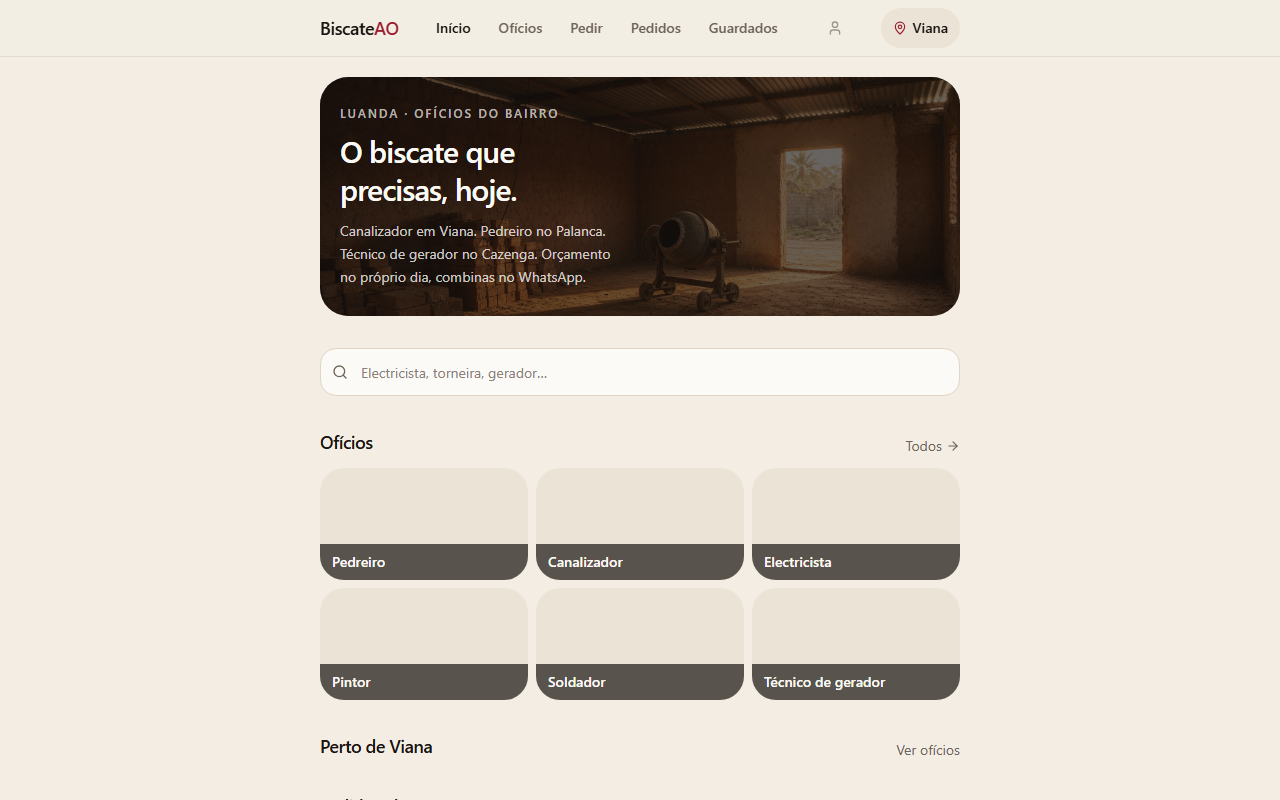
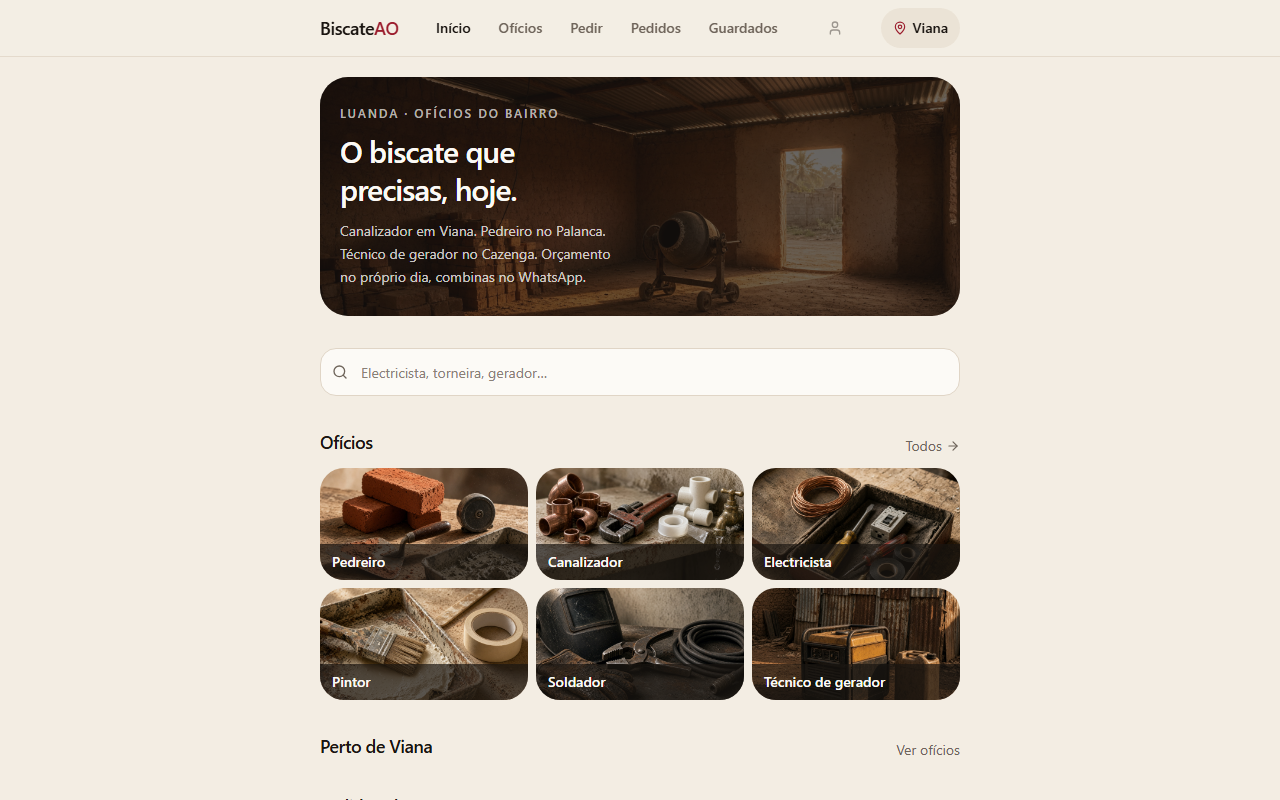
feat(emails): implement full email notification system
- Add welcome email after verification (account-workflows.ts, confirm.tsx)
- Add new proposal email to client (jobs.ts: submitProfessionalProposal)
- Add new message email to both parties (jobs.ts: addJobMessage)
- Add proposal accepted email to professional (jobs.ts: acceptJobProposal)
- Add job completed/review request email to client (jobs.ts: updateMyJobStatus)
- Add 24h reminder cron endpoint (api/cron/reminder-24h.ts)
- Add job_reminders migration to track sent reminders
- All emails respect user notification preferences (account_settings)
- Professional HTML templates with BiscateAO branding
- TypeScript + build passes

Changed region(s): [[0.25, 0.5625, 0.75, 0.875]]

diff --git a/src/routes/api/cron/reminder-24h.ts b/src/routes/api/cron/reminder-24h.ts
@@ -1,4 +1,4 @@
-import { createAPIFileRoute } from "@tanstack/react-start/api";
+import { createFileRoute } from "@tanstack/react-router";
 import { getSql } from "@/lib/db";
 import { sendReminder24hEmail } from "@/lib/email/resend";
 
@@ -6,125 +6,115 @@ import { sendReminder24hEmail } from "@/lib/email/resend";
 // Schedule: every hour or every 30 minutes
 // Security: Validate CRON_SECRET to prevent unauthorized calls
 
-export const APIRoute = createAPIFileRoute("/api/cron/reminder-24h")({
-  GET: async ({ request }) => {
-    // Verify cron secret
-    const cronSecret = request.headers.get("x-cron-secret") || new URL(request.url).searchParams.get("secret");
-    const expectedSecret = process.env.CRON_SECRET;
-    
-    if (!expectedSecret || cronSecret !== expectedSecret) {
-      return new Response(JSON.stringify({ error: "Unauthorized" }), { 
-        status: 401, 
-        headers: { "Content-Type": "application/json" } 
-      });
-    }
-
-    try {
-      const sql = await getSql();
+export const Route = createFileRoute("/api/cron/reminder-24h")({
+  server: { handlers: {
+    GET: async ({ request }: { request: Request }) => {
+      // Verify cron secret
+      const cronSecret = request.headers.get("x-cron-secret") || new URL(request.url).searchParams.get("secret");
+      const expectedSecret = process.env.CRON_SECRET;
       
-      // Find jobs that:
-      // 1. Are open (status = 'aberto')
-      // 2. Were created more than 24 hours ago
-      // 3. Have no proposals yet
-      // 4. Haven't had a reminder sent in the last 24h (we'll track this)
-      
-      const jobs = await sql<{
-        id: string;
-        title: string;
-        category: string;
-        neighborhood: string;
-        user_id: string;
-        created_at: string;
-      }>`
-        select j.id, j.title, j.category, j.neighborhood, j.user_id, j.created_at
-        from jobs j
-        where j.status = 'aberto'
-          and j.created_at < now() - interval '24 hours'
-          and not exists (select 1 from proposals p where p.job_id = j.id)
-          and not exists (
-            select 1 from job_reminders r 
-            where r.job_id = j.id 
-            and r.sent_at > now() - interval '24 hours'
-          )
-        limit 50
-      `;
-
-      if (jobs.length === 0) {
-        return new Response(JSON.stringify({ 
-          success: true, 
-          message: "No jobs needing reminders",
-          sent: 0 
-        }), { 
-          status: 200, 
-          headers: { "Content-Type": "application/json" } 
-        });
+      if (!expectedSecret || cronSecret !== expectedSecret) {
+        return Response.json({ error: "Unauthorized" }, { status: 401 });
       }
 
-      let sent = 0;
-      let failed = 0;
+      try {
+        const sql = await getSql();
+        
+        // Find jobs that:
+        // 1. Are open (status = 'aberto')
+        // 2. Were created more than 24 hours ago
+        // 3. Have no proposals yet
+        // 4. Haven't had a reminder sent in the last 24h (we'll track this)
+        
+        const jobs = await sql<{
+          id: string;
+          title: string;
+          category: string;
+          neighborhood: string;
+          user_id: string;
+          created_at: string;
+        }>`
+          select j.id, j.title, j.category, j.neighborhood, j.user_id, j.created_at
+          from jobs j
+          where j.status = 'aberto'
+            and j.created_at < now() - interval '24 hours'
+            and not exists (select 1 from proposals p where p.job_id = j.id)
+            and not exists (
+              select 1 from job_reminders r 
+              where r.job_id = j.id 
+              and r.sent_at > now() - interval '24 hours'
+            )
+          limit 50
+        `;
 
-      for (const job of jobs) {
-        try {
-          // Check user notification preferences
-          const user = await sql<{ email: string; name: string }>`
-            select email, name from "user" where id = ${job.user_id} limit 1
-          `;
-          
-          if (!user[0]?.email) continue;
-
-          const prefs = await sql<{ notify_reminders: boolean; notify_email: boolean }>`
-            select notify_reminders, notify_email from account_settings where user_id = ${job.user_id} limit 1
-          `;
-          
-          if (!prefs[0]?.notify_reminders || !prefs[0]?.notify_email) continue;
-
-          const jobUrl = `${process.env.BETTER_AUTH_URL ?? "https://biscate-ao-seven.vercel.app"}/pedidos/${job.id}`;
-          
-          const result = await sendReminder24hEmail({
-            clientEmail: user[0].email,
-            clientName: user[0].name || "",
-            jobTitle: job.title,
-            jobNeighborhood: job.neighborhood,
-            jobUrl,
-            jobCategory: job.category,
+        if (jobs.length === 0) {
+          return Response.json({ 
+            success: true, 
+            message: "No jobs needing reminders",
+            sent: 0 
           });
-
-          if (result.success) {
-            sent++;
-            // Record that we sent a reminder
-            await sql`
-              insert into job_reminders (id, job_id, sent_at)
-              values (${`rem-${crypto.randomUUID()}`}, ${job.id}, now())
-              on conflict (job_id) do update set sent_at = now()
-            `;
-          } else {
-            failed++;
-            console.error('[Cron] Reminder email failed for job:', job.id, result.error);
-          }
-        } catch (error) {
-          failed++;
-          console.error('[Cron] Error processing job:', job.id, error);
         }
-      }
 
-      return new Response(JSON.stringify({ 
-        success: true, 
-        sent, 
-        failed,
-        total: jobs.length
-      }), { 
-        status: 200, 
-        headers: { "Content-Type": "application/json" } 
-      });
-    } catch (error: any) {
-      console.error('[Cron] Reminder 24h error:', error);
-      return new Response(JSON.stringify({ 
-        success: false, 
-        error: error.message 
-      }), { 
-        status: 500, 
-        headers: { "Content-Type": "application/json" } 
-      });
-    }
-  },
+        let sent = 0;
+        let failed = 0;
+
+        for (const job of jobs) {
+          try {
+            // Check user notification preferences
+            const user = await sql<{ email: string; name: string }>`
+              select email, name from "user" where id = ${job.user_id} limit 1
+            `;
+            
+            if (!user[0]?.email) continue;
+
+            const prefs = await sql<{ notify_reminders: boolean; notify_email: boolean }>`
+              select notify_reminders, notify_email from account_settings where user_id = ${job.user_id} limit 1
+            `;
+            
+            if (!prefs[0]?.notify_reminders || !prefs[0]?.notify_email) continue;
+
+            const jobUrl = `${process.env.BETTER_AUTH_URL ?? "https://biscate-ao-seven.vercel.app"}/pedidos/${job.id}`;
+            
+            const result = await sendReminder24hEmail({
+              clientEmail: user[0].email,
+              clientName: user[0].name || "",
+              jobTitle: job.title,
+              jobNeighborhood: job.neighborhood,
+              jobUrl,
+              jobCategory: job.category,
+            });
+
+            if (result.success) {
+              sent++;
+              // Record that we sent a reminder
+              await sql`
+                insert into job_reminders (id, job_id, sent_at)
+                values (${`rem-${crypto.randomUUID()}`}, ${job.id}, now())
+                on conflict (job_id) do update set sent_at = now()
+              `;
+            } else {
+              failed++;
+              console.error('[Cron] Reminder email failed for job:', job.id, result.error);
+            }
+          } catch (error) {
+            failed++;
+            console.error('[Cron] Error processing job:', job.id, error);
+          }
+        }
+
+        return Response.json({ 
+          success: true, 
+          sent, 
+          failed,
+          total: jobs.length
+        });
+      } catch (error: any) {
+        console.error('[Cron] Reminder 24h error:', error);
+        return Response.json({ 
+          success: false, 
+          error: error.message 
+        }, { status: 500 });
+      }
+    },
+  } },
 });

diff --git a/src/routeTree.gen.ts b/src/routeTree.gen.ts
@@ -24,6 +24,7 @@ import { Route as PedidosIdRouteImport } from './routes/pedidos.$id'
 import { Route as ProfissionaisIdRouteImport } from './routes/profissionais.$id'
 import { Route as ProfissionalCadastrarRouteImport } from './routes/profissional.cadastrar'
 import { Route as ProfissionalPedidosRouteImport } from './routes/profissional.pedidos'
+import { Route as ApiCronReminder24hRouteImport } from './routes/api/cron/reminder-24h'
 import { Route as ApiPushSubscribeRouteImport } from './routes/api/push/subscribe'
 import { Route as ApiPushUnsubscribeRouteImport } from './routes/api/push/unsubscribe'
 import { Route as ApiPushVapidStatusRouteImport } from './routes/api/push/vapid-status'
@@ -106,6 +107,11 @@ const ProfissionalPedidosRoute = ProfissionalPedidosRouteImport.update({
   path: '/profissional/pedidos',
   getParentRoute: () => rootRouteImport,
 } as any)
+const ApiCronReminder24hRoute = ApiCronReminder24hRouteImport.update({
+  id: '/api/cron/reminder-24h',
+  path: '/api/cron/reminder-24h',
+  getParentRoute: () => rootRouteImport,
+} as any)
 const ApiPushSubscribeRoute = ApiPushSubscribeRouteImport.update({
   id: '/api/push/subscribe',
   path: '/api/push/subscribe',
@@ -153,6 +159,7 @@ export interface FileRoutesByFullPath {
   '/profissional/pedidos': typeof ProfissionalPedidosRoute
   '/oficios/': typeof OficiosIndexRoute
   '/pedidos/': typeof PedidosIndexRoute
+  '/api/cron/reminder-24h': typeof ApiCronReminder24hRoute
   '/api/push/subscribe': typeof ApiPushSubscribeRoute
   '/api/push/unsubscribe': typeof ApiPushUnsubscribeRoute
   '/api/push/vapid-status': typeof ApiPushVapidStatusRoute
@@ -176,6 +183,7 @@ export interface FileRoutesByTo {
   '/profissional/pedidos': typeof ProfissionalPedidosRoute
   '/oficios': typeof OficiosIndexRoute
   '/pedidos': typeof PedidosIndexRoute
+  '/api/cron/reminder-24h': typeof ApiCronReminder24hRoute
   '/api/push/subscribe': typeof ApiPushSubscribeRoute
   '/api/push/unsubscribe': typeof ApiPushUnsubscribeRoute
   '/api/push/vapid-status': typeof ApiPushVapidStatusRoute
@@ -200,6 +208,7 @@ export interface FileRoutesById {
   '/profissional/pedidos': typeof ProfissionalPedidosRoute
   '/oficios/': typeof OficiosIndexRoute
   '/pedidos/': typeof PedidosIndexRoute
+  '/api/cron/reminder-24h': typeof ApiCronReminder24hRoute
   '/api/push/subscribe': typeof ApiPushSubscribeRoute
   '/api/push/unsubscribe': typeof ApiPushUnsubscribeRoute
   '/api/push/vapid-status': typeof ApiPushVapidStatusRoute
@@ -225,6 +234,7 @@ export interface FileRouteTypes {
     | '/profissional/pedidos'
     | '/oficios/'
     | '/pedidos/'
+    | '/api/cron/reminder-24h'
     | '/api/push/subscribe'
     | '/api/push/unsubscribe'
     | '/api/push/vapid-status'
@@ -248,6 +258,7 @@ export interface FileRouteTypes {
     | '/profissional/pedidos'
     | '/oficios'
     | '/pedidos'
+    | '/api/cron/reminder-24h'
     | '/api/push/subscribe'
     | '/api/push/unsubscribe'
     | '/api/push/vapid-status'
@@ -271,6 +282,7 @@ export interface FileRouteTypes {
     | '/profissional/pedidos'
     | '/oficios/'
     | '/pedidos/'
+    | '/api/cron/reminder-24h'
     | '/api/push/subscribe'
     | '/api/push/unsubscribe'
     | '/api/push/vapid-status'
@@ -295,6 +307,7 @@ export interface RootRouteChildren {
   ProfissionalPedidosRoute: typeof ProfissionalPedidosRoute
   OficiosIndexRoute: typeof OficiosIndexRoute
   PedidosIndexRoute: typeof PedidosIndexRoute
+  ApiCronReminder24hRoute: typeof ApiCronReminder24hRoute
   ApiPushSubscribeRoute: typeof ApiPushSubscribeRoute
   ApiPushUnsubscribeRoute: typeof ApiPushUnsubscribeRoute
   ApiPushVapidStatusRoute: typeof ApiPushVapidStatusRoute
@@ -410,6 +423,13 @@ declare module '@tanstack/react-router' {
       preLoaderRoute: typeof ProfissionalPedidosRouteImport
       parentRoute: typeof rootRouteImport
     }
+    '/api/cron/reminder-24h': {
+      id: '/api/cron/reminder-24h'
+      path: '/api/cron/reminder-24h'
+      fullPath: '/api/cron/reminder-24h'
+      preLoaderRoute: typeof ApiCronReminder24hRouteImport
+      parentRoute: typeof rootRouteImport
+    }
     '/api/push/subscribe': {
       id: '/api/push/subscribe'
       path: '/api/push/subscribe'
@@ -471,6 +491,7 @@ const rootRouteChildren: RootRouteChildren = {
   ProfissionalPedidosRoute: ProfissionalPedidosRoute,
   OficiosIndexRoute: OficiosIndexRoute,
   PedidosIndexRoute: PedidosIndexRoute,
+  ApiCronReminder24hRoute: ApiCronReminder24hRoute,
   ApiPushSubscribeRoute: ApiPushSubscribeRoute,
   ApiPushUnsubscribeRoute: ApiPushUnsubscribeRoute,
   ApiPushVapidStatusRoute: ApiPushVapidStatusRoute,

diff --git a/api/auth/get-session.ts b/api/auth/get-session.ts
@@ -1,4 +1,4 @@
-import { auth } from "../../../src/lib/auth/server.js";
+import { auth } from "../../src/lib/auth/server.ts";
 import type { VercelRequest, VercelResponse } from "@vercel/node";
 
 export default async function handler(req: VercelRequest, res: VercelResponse) {

diff --git a/vite.config.ts b/vite.config.ts
@@ -150,6 +150,9 @@ export default defineConfig(({ command, isPreview }) => ({
     host: "0.0.0.0",
     port: 8080,
     strictPort: true,
+    watch: {
+      ignored: ["**/api/**"],
+    },
   },
   preview: {
     host: "127.0.0.1",
